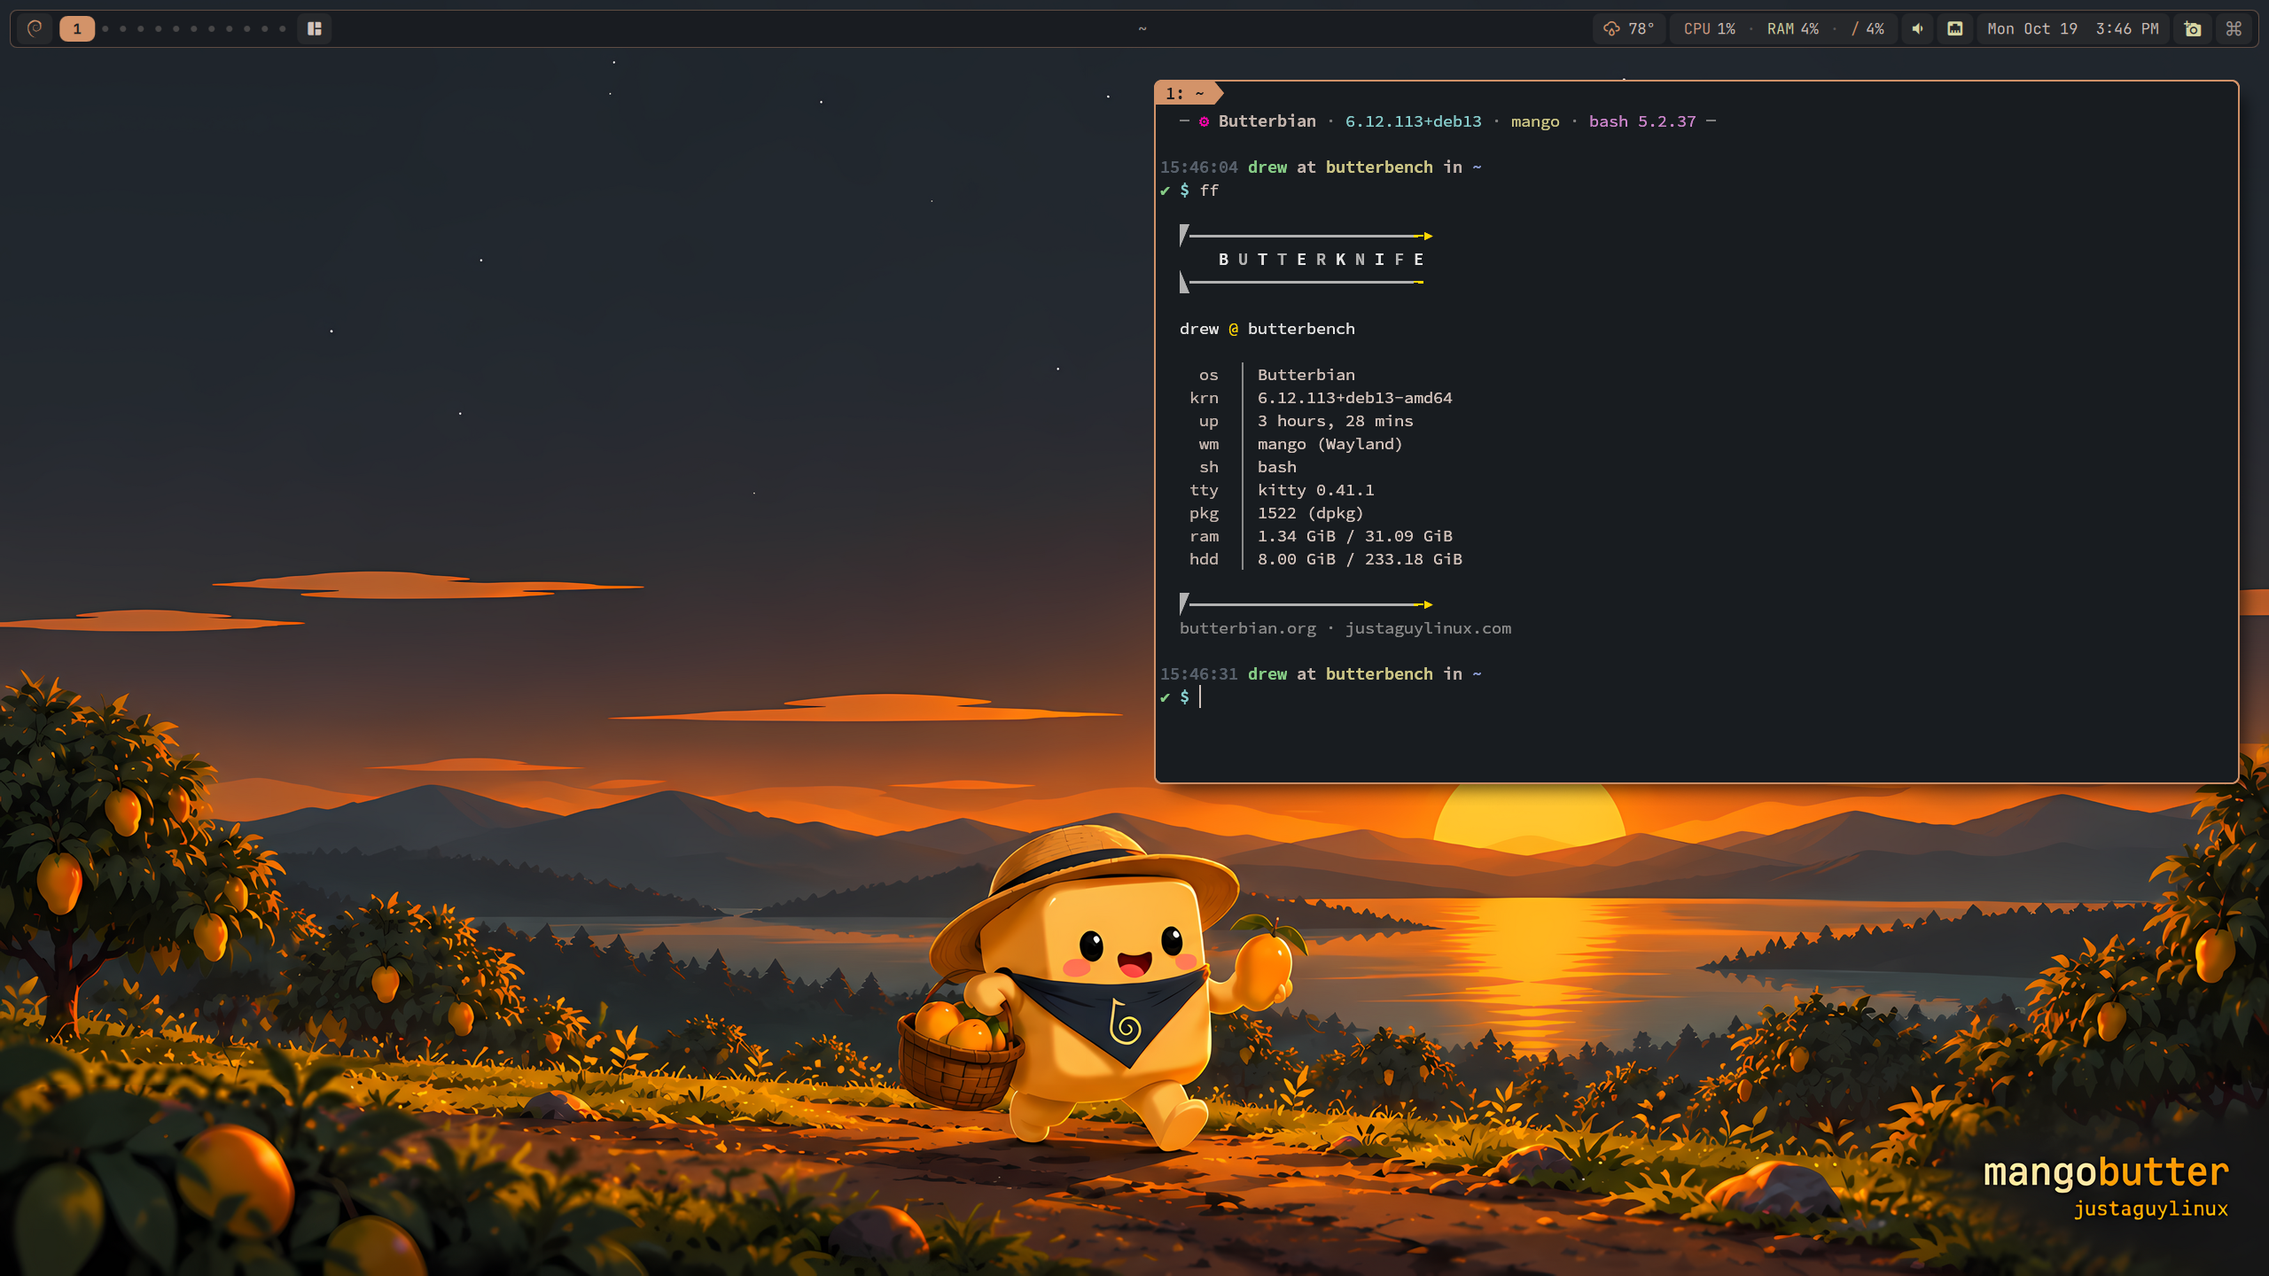
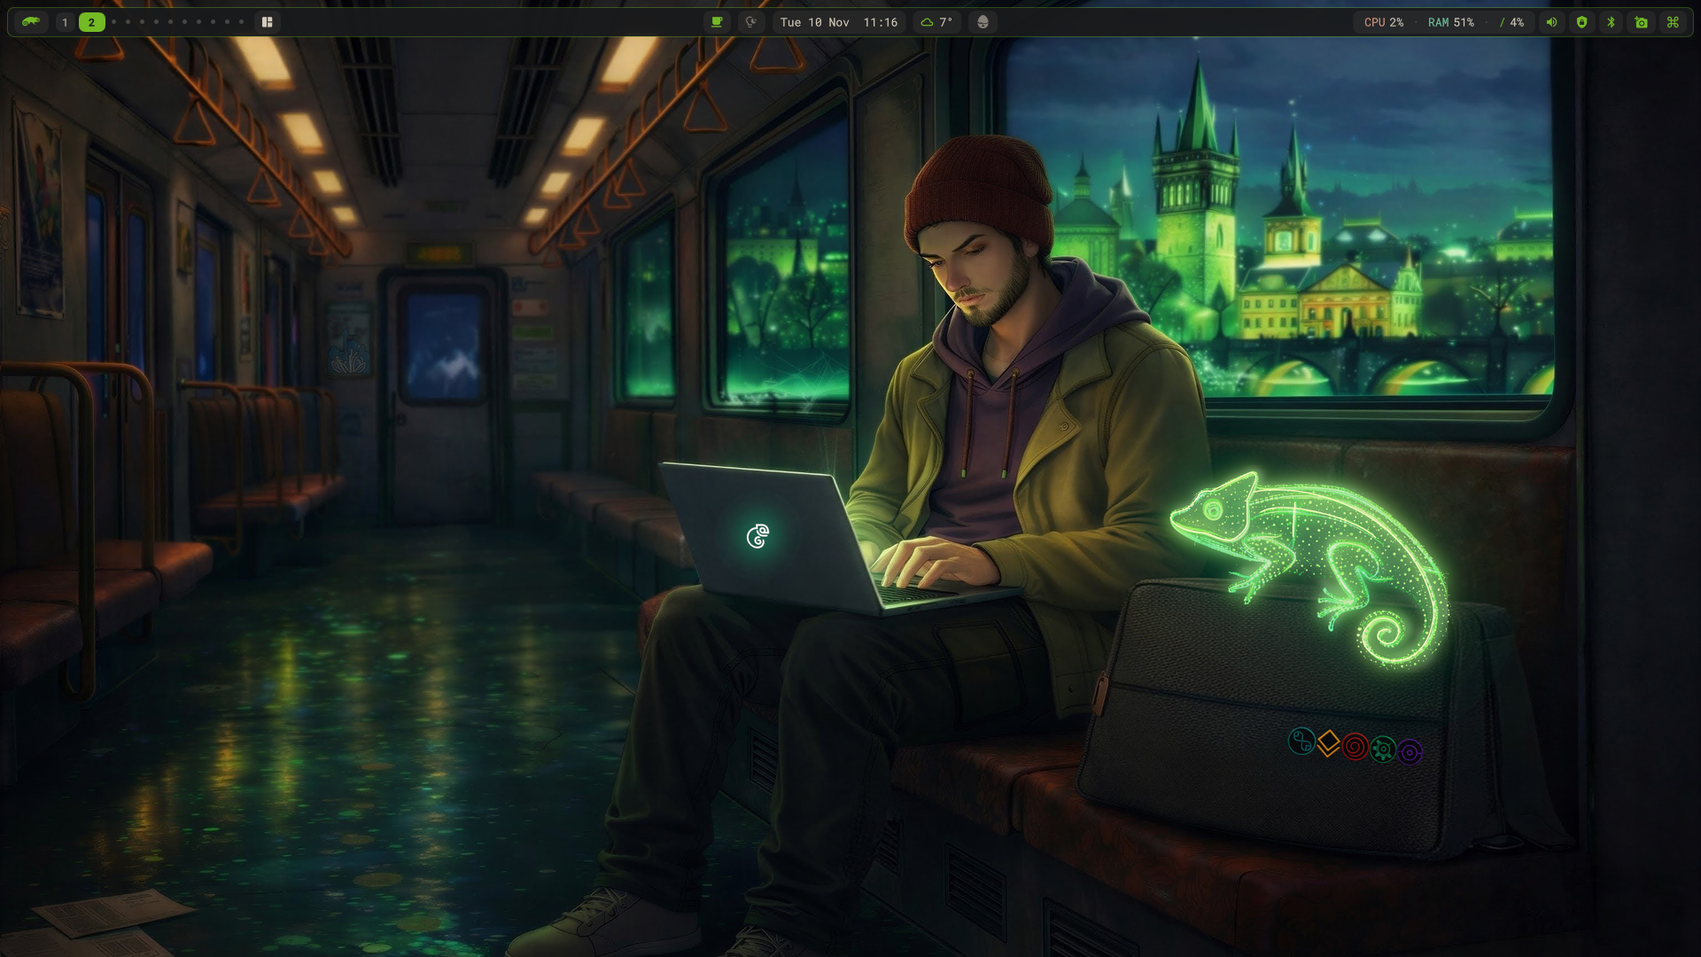
Rebrand as mango_opensuse for openSUSE Tumbleweed, credit Drew
- README rewritten for Tumbleweed: zypper install, installer options,
  what it builds, the Flathub apps (Focus Timer, Telegram) and mise +
  Claude Code; full credit to Drew (JustAGuyLinux) as the author of
  the original setup
- new desktop and terminal screenshots
- bar launcher icon is the openSUSE chameleon (adds BarModule's
  iconPixelSize so it can be drawn larger)
- Debian references in comments and docs rewritten; CONTRIBUTING points
  port issues here and setup changes upstream

diff --git a/share/quickshell/Launcher.qml b/share/quickshell/Launcher.qml
@@ -1,6 +1,6 @@
 import QtQuick
 
-// Debian swirl — the command center, no extra buttons needed:
+// openSUSE chameleon — the command center, no extra buttons needed:
 //   left: app launcher (LauncherPopup; the clipboard popup lives here
 //   too) · right: the settings panel's
 //   Wallpaper tab · middle: random wallpaper
@@ -8,8 +8,9 @@ import QtQuick
 BarModule {
     id: root
 
-    icon: ""  // Debian swirl (Font Logos, in Roboto Mono Nerd Font too)
+    icon: ""  // openSUSE chameleon (Font Logos, in Roboto Mono Nerd Font too)
     iconColor: Theme.accent
+    iconPixelSize: Math.round(Theme.iconSize * 1.35)
     onClicked: mouse => {
         if (mouse.button === Qt.RightButton)
             BarIpc.call("settings", "open", "wallpaper")

diff --git a/share/quickshell/BarModule.qml b/share/quickshell/BarModule.qml
@@ -11,6 +11,8 @@ Rectangle {
     property color iconColor: alert ? Theme.bg : Theme.accent
     // the icon's font; a module can set its own
     property string iconFont: Theme.fontFamily
+    // the icon's pixel size; a module can set its own
+    property int iconPixelSize: Theme.iconSize
     property string label: ""
     property color labelColor: alert ? Theme.bg : Theme.fg
     property bool interactive: true
@@ -52,7 +54,7 @@ Rectangle {
             text: root.icon
             color: root.iconColor
             font.family: root.iconFont
-            font.pixelSize: Theme.iconSize
+            font.pixelSize: root.iconPixelSize
             Behavior on color { ColorAnimation { duration: 250 } }
         }
 

diff --git a/share/quickshell/Sys.qml b/share/quickshell/Sys.qml
@@ -25,9 +25,9 @@ Singleton {
     property bool vpnOn: false
     property int wifiSignal: -1        // 0–100 while on Wi-Fi, -1 unknown
     // NetworkManager's verdict: full, limited, portal, none or unknown.
-    // Real only while its connectivity check is on (Debian's
-    // network-manager-config-connectivity-debian); without it NM just
-    // says full.
+    // Real only while its connectivity check is on (Tumbleweed's
+    // NetworkManager-branding-openSUSE ships it, conncheck.opensuse.org);
+    // without it NM just says full.
     property string connectivity: "unknown"
     property string checkUri: ""       // the check's URL: a sign-in page intercepts it
 

diff --git a/share/quickshell/LauncherPopup.qml b/share/quickshell/LauncherPopup.qml
@@ -3,7 +3,7 @@ import Quickshell
 import Quickshell.Io
 import Quickshell.Widgets
 
-// App launcher (Super+space, or left-click the Debian swirl): every
+// App launcher (Super+space, or left-click the openSUSE chameleon): every
 // installed app in a grid. Type to search (name, generic name, keywords,
 // program); arrows move, Enter launches, Esc clears then closes. Chips
 // (Ctrl+Tab) narrow to Apps, Settings (the .desktop "Settings" category,

diff --git a/README.md b/README.md
@@ -1,60 +1,72 @@
-# 🥭 mangobutter
+# 🥭 mango_opensuse
 
-> **openSUSE Tumbleweed fork.** A port of [justaguy.dev/butter/mango](https://justaguy.dev/butter/mango) to Tumbleweed; everything below this box is upstream's Debian README.
->
-> ```bash
-> sudo zypper in git
-> git clone https://github.com/pauljamesharper/opensuse_mango.git
-> cd opensuse_mango
-> ./install-opensuse.sh
-> ```
->
-> What's different from upstream:
-> - `install-opensuse.sh`: packages from the Tumbleweed repos via zypper. mangowc, scenefx, quickshell, butterpal, butterview and the themes are built from source into `/usr/local`. SDDM is kept.
-> - Extras: git, stow, vim, emacs, alacritty, blueman, mise (+ claude), OCR tools, CJK/Thai/Arabic/Khmer fonts, Flathub with Focus Timer and Telegram. IceWM is removed and locked.
-> - `first-run/`: Omarchy-style one-time setup that opens in a terminal at the first login. It sets the hostname and git identity, starts an ssh-agent user service, creates an Ed25519 key and walks you through adding it to Codeberg, GitHub and GitLab, then runs `zypper dup`. Run it again any time with `mango-first-run --force`.
+**A MangoWM desktop for openSUSE Tumbleweed.** Tags and a master stack, blur and rounded corners, a quickshell bar on top, and wallpaper-driven theming, installed in one go with `zypper`.
 
-mangobutter: [butterdwm](https://justaguy.dev/butter/dwm)'s Wayland cousin. Same butter, more mango.
-
-![Made for Debian](https://img.shields.io/badge/Made%20for-Debian%2013-A81D33?style=flat-square&logo=debian&logoColor=white)
+![Made for openSUSE Tumbleweed](https://img.shields.io/badge/Made%20for-openSUSE%20Tumbleweed-73BA25?style=flat-square&logo=opensuse&logoColor=white)
 ![MangoWM](https://img.shields.io/badge/MangoWM-0.14.4-5294E2?style=flat-square&logo=wayland&logoColor=white)
-![Last Commit](https://img.shields.io/gitea/last-commit/butter/mango?gitea_url=https://justaguy.dev&style=flat-square&logo=forgejo&logoColor=white&color=green&label=Last%20Commit)
 
-[MangoWM](https://github.com/mangowm/mango) at the core, a quickshell bar on top, for Debian 13 (trixie).
-dwm's brain with Hyprland's face, on plain Debian stable.
+![mango_opensuse desktop](screenshots/desktop.png)
 
-![mangobutter screenshot](screenshots/desktop.png)
+![mango_opensuse terminal with fastfetch](screenshots/terminal.png)
 
-> 📚 **The documentation is the [wiki](https://justaguy.dev/butter/mango/wiki).** This README gets you installed and tells you the four things to know. Everything else, keybinds, the settings panel, scratchpads, theming, multi-monitor, the 0.14.4 pin, upgrading, troubleshooting, lives there.
-
-Starting from a bare machine? [butterknife](https://justaguy.dev/drew/butterknife) installs Debian 13 with this setup picked from a menu. Part of the [JustAGuy Linux](https://justaguy.dev/drew) window manager collection and the [Butterbian](https://butterbian.org) family. Formerly mangowc-setup; the old URL redirects.
+> 🧈 **All credit to Drew of [JustAGuyLinux](https://justaguy.dev/drew).** This is an openSUSE Tumbleweed port of his [mango setup](https://justaguy.dev/butter/mango) (mangobutter), the Wayland cousin of his [butterdwm](https://justaguy.dev/butter/dwm). The bar, the settings panel, the wallpaper theming, the scripts, the config layout and the design are all his work. This fork only changes how it gets onto Tumbleweed and adds a few extras on top. If you like it, [support Drew](#support-drew) and follow his work.
 
 ---
 
 ## INSTALL
 
 ```bash
-sudo apt install git      # a minimal Debian doesn't have it
-git clone https://justaguy.dev/butter/mango.git
-cd mango
-./install.sh
+sudo zypper in git
+git clone https://github.com/pauljamesharper/opensuse_mango.git
+cd opensuse_mango
+./install-opensuse.sh
 ```
 
 ```
-./install.sh [OPTIONS]
+./install-opensuse.sh [OPTIONS]
 
-  --only-config      Config files; on Debian also the packages added to the list
-                     since, one at a time, never removing anything
-  --help             Show usage
+  --only-config   Config files, plus packages added to the list since (never removes any)
+  --rebuild       Rebuild mangowc, scenefx, quickshell, butterpal, butterview and themes
+  --help          Show usage
 ```
 
-Then reboot and pick **Mango** at the login screen. The installer refreshes and upgrades the system (`apt-get upgrade`), adds [butterrepo](https://justaguy.dev/drew/butterrepo) and takes the compositor stack and themes from it (`mangowc` 0.14.4, `libwlroots-0.19`, `libscenefx-0.4`, `quickshell`, `rofi`, `awww`, Orchis and Colloid), installs the rest from Debian (see the wiki's [Packages](https://justaguy.dev/butter/mango/wiki/Packages) page), pulls kitty, Nerd Fonts and LightDM through [butterscripts](https://justaguy.dev/drew/butterscripts), installs the `mango-session` login wrapper, and ends with an optional tools prompt.
+Then reboot and pick **Mango** at the SDDM login screen.
 
-Debian 13 is the only base. Anything else, forky, sid, Ubuntu, the installer refuses on purpose: the reason is the wlroots pin, explained on the wiki's [Why 0.14.4](https://justaguy.dev/butter/mango/wiki/Why-0.14.4) page.
+The installer:
 
-> ⚠ **NVIDIA: untested.** Only run on AMD so far. The installer runs `nvidia-setup.sh` when it sees the proprietary driver; nobody has verified blur, shadows and rounded corners on it. Reports welcome either way.
+- takes everything it can from the official Tumbleweed repos with `zypper` (no third-party desktop repo)
+- builds `mangowc` 0.14.4 (with the patches Drew's packages carry), scenefx 0.4.1, quickshell, butterpal and butterview from source into `/usr/local`, and rebuilds them only when they are out of date or Tumbleweed moves Qt or wlroots underneath them
+- builds the Orchis and Colloid themes from vinceliuice's tagged releases
+- installs the `mango-session` login entry and keeps SDDM
+- installs the Nerd Fonts through Drew's [butterscripts](https://justaguy.dev/drew/butterscripts)
+- rewrites the bar's package commands (update counter, "Check for updates", install hints) to `zypper`
 
-> 🪵 **Branches:** `main` is the release, `dev` is where work lands.
+openSUSE Tumbleweed is the only base. Slowroll should behave the same but is untested. Leap is refused because its wlroots and Qt are too old.
+
+After a big Tumbleweed snapshot (new Qt or wlroots), if the bar or mango won't start, run `./install-opensuse.sh --rebuild`.
+
+> ⚠ **NVIDIA: untested.** The installer runs `nvidia-setup.sh` when it sees the proprietary driver; nobody has verified blur, shadows and rounded corners on it.
+
+---
+
+## EXTRAS IN THIS FORK
+
+**Flatpaks.** Flathub is added system-wide and these apps are installed from it:
+
+| App | Why |
+|---|---|
+| [Focus Timer](https://flathub.org/apps/io.github.focustimerhq.FocusTimer) | Pomodoro timer |
+| [Telegram](https://flathub.org/apps/org.telegram.desktop) | Chat |
+
+Add your own to the `FLATPAKS` list in `install-opensuse.sh`; `--only-config` installs anything new.
+
+**mise and Claude Code.** [mise](https://mise.jdx.dev) comes from its own zypper repo, gets activated in `~/.bashrc`, and installs [Claude Code](https://claude.com/claude-code) with `mise use -g claude@latest`. Upgrade it later with `mise upgrade claude`.
+
+**Packages.** git, stow, vim, emacs, alacritty and blueman; tesseract OCR and wtype; Noto fonts for CJK, Thai, Arabic and Khmer. IceWM is removed and locked.
+
+**First-run setup.** `first-run/` is an Omarchy-style one-time setup that opens in a terminal at the first login. It sets the hostname and git identity, starts an ssh-agent user service, creates an Ed25519 key and walks you through adding it to Codeberg, GitHub and GitLab, then runs `zypper dup`. Run it again any time with `mango-first-run --force`.
+
+**openSUSE look.** The launcher on the bar is the openSUSE chameleon.
 
 ---
 
@@ -62,13 +74,13 @@ Debian 13 is the only base. Anything else, forky, sid, Ubuntu, the installer ref
 
 1. **`Super + /` opens the settings panel.** Keybinds, window rules and scratchpads, layouts, gaps and effects, displays and wallpapers, one place with vertical tabs. Most things you would edit a file for are a click here.
 
-2. **Your config is six files in `~/.config/mango/`.** `keybinds.conf` is every binding, `rules.conf` every window rule and scratchpad, `local.conf` your overrides (read last, so they win), plus `autostart.conf`, `env` and the `config.conf` that sources them. The setup's own files live in `~/.local/share/mango` and are replaced on update; yours are treated like `dpkg` treats a conffile.
+2. **Your config is six files in `~/.config/mango/`.** `keybinds.conf` is every binding, `rules.conf` every window rule and scratchpad, `local.conf` your overrides (read last, so they win), plus `autostart.conf`, `env` and the `config.conf` that sources them. The setup's own files live in `~/.local/share/mango` and are replaced on update; yours are kept like a package manager keeps an edited config file.
 
 3. **`Super + Shift + R` reloads.** No restart, no logout. `mango -p` checks a config for mistakes and names the file and line.
 
-4. **Updating is a menu entry.** `Super + Shift + m`, then **Update setup**: it pulls the clone you installed from and reinstalls in place, the way dpkg treats a conffile. A file you edited stays as it is; if the shipped version changed too, the new one lands beside yours as `.new` and the installer says so, once. The setup's own files are replaced, your settings and colors are left alone. Nothing checks on its own. [Upgrading](https://justaguy.dev/butter/mango/wiki/Upgrading) has the rule.
+4. **Updating is a menu entry.** `Super + Shift + m`, then **Update setup**: it pulls the clone you installed from and runs `install-opensuse.sh --only-config` in place. A file you edited stays as it is; if the shipped version changed too, the new one lands beside yours as `.new` and the installer says so, once. The setup's own files are replaced, your settings and colors are left alone. Nothing checks on its own. [Upgrading](https://justaguy.dev/butter/mango/wiki/Upgrading) has the rule.
 
-Everything else is on the wiki: [Keybinds](https://justaguy.dev/butter/mango/wiki/Keybinds) · [Settings Panel](https://justaguy.dev/butter/mango/wiki/Settings-Panel) · [Scratchpads](https://justaguy.dev/butter/mango/wiki/Scratchpads) · [Customization](https://justaguy.dev/butter/mango/wiki/Customization) · [Themes](https://justaguy.dev/butter/mango/wiki/Themes) · [Multi-Monitor](https://justaguy.dev/butter/mango/wiki/Multi-Monitor) · [Why 0.14.4](https://justaguy.dev/butter/mango/wiki/Why-0.14.4) · [Upgrading](https://justaguy.dev/butter/mango/wiki/Upgrading) · [Troubleshooting](https://justaguy.dev/butter/mango/wiki/Troubleshooting)
+Everything else is on Drew's wiki (written for his original; the desktop works the same here, only the install and package steps differ): [Keybinds](https://justaguy.dev/butter/mango/wiki/Keybinds) · [Settings Panel](https://justaguy.dev/butter/mango/wiki/Settings-Panel) · [Scratchpads](https://justaguy.dev/butter/mango/wiki/Scratchpads) · [Customization](https://justaguy.dev/butter/mango/wiki/Customization) · [Themes](https://justaguy.dev/butter/mango/wiki/Themes) · [Multi-Monitor](https://justaguy.dev/butter/mango/wiki/Multi-Monitor) · [Why 0.14.4](https://justaguy.dev/butter/mango/wiki/Why-0.14.4) · [Upgrading](https://justaguy.dev/butter/mango/wiki/Upgrading) · [Troubleshooting](https://justaguy.dev/butter/mango/wiki/Troubleshooting)
 
 ---
 
@@ -95,29 +107,31 @@ Mango is dwm's model, tags and a master stack, as a wlroots compositor with scen
 
 ## CREDITS
 
-This project is a config on top of other people's software. Mango is by [DreamMaoMao](https://github.com/DreamMaoMao) and [contributors](https://github.com/mangowm/mango), on [wlroots](https://gitlab.freedesktop.org/wlroots/wlroots) and [scenefx](https://github.com/wlrfx/scenefx). Quickshell by [outfoxxed](https://git.outfoxxed.me/quickshell/quickshell). awww by [LGFae](https://codeberg.org/LGFae/awww). rofi-wayland by [lbonn](https://github.com/lbonn/rofi). dunst by the [dunst project](https://dunst-project.org). kitty by [Kovid Goyal](https://sw.kovidgoyal.net/kitty/). GTK and icon themes by [vinceliuice](https://github.com/vinceliuice): [Orchis](https://github.com/vinceliuice/Orchis-theme) and [Colloid](https://github.com/vinceliuice/Colloid-icon-theme).
+**Drew ([JustAGuyLinux](https://justaguy.dev/drew))** made this setup: the mango config, the quickshell bar and its settings panel, the wallpaper theming, the scripts, butterpal and butterview. The original lives at [justaguy.dev/butter/mango](https://justaguy.dev/butter/mango), with its [wiki](https://justaguy.dev/butter/mango/wiki). This repo is only the openSUSE Tumbleweed port.
+
+Drew's setup is itself built on other people's software. Mango is by [DreamMaoMao](https://github.com/DreamMaoMao) and [contributors](https://github.com/mangowm/mango), on [wlroots](https://gitlab.freedesktop.org/wlroots/wlroots) and [scenefx](https://github.com/wlrfx/scenefx). Quickshell by [outfoxxed](https://git.outfoxxed.me/quickshell/quickshell). awww by [LGFae](https://codeberg.org/LGFae/awww). rofi-wayland by [lbonn](https://github.com/lbonn/rofi). dunst by the [dunst project](https://dunst-project.org). kitty by [Kovid Goyal](https://sw.kovidgoyal.net/kitty/). GTK and icon themes by [vinceliuice](https://github.com/vinceliuice): [Orchis](https://github.com/vinceliuice/Orchis-theme) and [Colloid](https://github.com/vinceliuice/Colloid-icon-theme).
 
 ---
 
-## Support
+## Support Drew
 
 <a href="https://www.buymeacoffee.com/justaguylinux" target="_blank"><img src="https://www.buymeacoffee.com/assets/img/custom_images/orange_img.png" alt="Buy me a coffee" /></a>
 
-## Connect
+## Drew's work
 
 - [YouTube](https://youtube.com/@justaguylinux) — tutorials and guides
 - [Butterforge](https://justaguy.dev/drew) — source code and projects
-- [Butter desktops](https://justaguy.dev/butter) — ready-to-use window manager desktops for Debian
+- [Butter desktops](https://justaguy.dev/butter) — more of Drew's ready-to-use window manager desktops
 - [The Butter Lab](https://lab.justaguylinux.com) — Discourse forum
 - [The Churn](https://justaguylinux.chat) — community chat (Fluxer)
 - [Wiki](https://justaguy.wiki) — documentation and guides
 - [Mastodon](https://fosstodon.org/@justaguylinux) — @justaguylinux@fosstodon.org
-- [Butterbian](https://butterbian.org) — a maintained Debian derivative built on Debian stable
+- [Butterbian](https://butterbian.org) — Drew's own distribution
 
 ## License
 
-GPL-2.0. See [LICENSE](LICENSE).
+GPL-2.0, as upstream. See [LICENSE](LICENSE).
 
 ---
 
-Made with 🧈 by JustAGuyLinux
+Made with 🧈 by [JustAGuyLinux](https://justaguy.dev/drew) · ported to openSUSE Tumbleweed by [pauljamesharper](https://github.com/pauljamesharper)

diff --git a/CONTRIBUTING.md b/CONTRIBUTING.md
@@ -1,9 +1,14 @@
 # Contributing
 
-Pull requests welcome, no fork needed. Full instructions:
+**To this openSUSE port:** open an issue or a pull request at
+https://github.com/pauljamesharper/opensuse_mango.
+
+**To the setup itself** (the bar, the configs, the scripts): those are
+Drew's, and changes that aren't openSUSE-specific belong upstream at
+https://justaguy.dev/butter/mango. His instructions:
 https://justaguy.dev/drew/.profile/src/branch/main/CONTRIBUTING.md
 
-Quick version (sign in with Codeberg or GitHub, add an SSH key, then):
+Quick version for upstream (sign in with Codeberg or GitHub, add an SSH key, then):
 
     git clone ssh://forgejo@justaguy.dev/butter/mango.git
     cd mango
@@ -12,5 +17,3 @@ Quick version (sign in with Codeberg or GitHub, add an SSH key, then):
     git push origin HEAD:refs/for/main -o topic=my-change -o title="Short description"
 
 Push again with the same topic to update the pull request.
-
-Or attach a `git format-patch` file to an issue.

diff --git a/share/quickshell/README.md b/share/quickshell/README.md
@@ -69,8 +69,8 @@ icon theme in as `QS_ICON_THEME` (quickshell doesn't follow it itself).
   always card-only (`composited: false`). Network state follows
   `nmcli monitor` (instant), plus Wi-Fi signal strength and
   NetworkManager's connectivity verdict (sign-in page / no internet),
-  which needs its connectivity check on — the installer adds Debian's
-  `network-manager-config-connectivity-debian`.
+  which needs its connectivity check on — Tumbleweed has it on by
+  default (`NetworkManager-branding-openSUSE`, conncheck.opensuse.org).
 - `Commands.qml` — keep-awake is a `systemd-inhibit --what=idle` holder
   process (swayidle watches logind for idle inhibitors, so this also
   keeps the monitor from powering down); night light is wlsunset; the

diff --git a/QUICKSTART.md b/QUICKSTART.md
@@ -1,4 +1,4 @@
-# mangobutter Quick Start
+# mango_opensuse Quick Start
 
 Super is the mod key. Keys: `~/.config/mango/keybinds.conf`; startup programs: `autostart.conf`; your overrides: `local.conf`; the setup's defaults: `~/.local/share/mango/defaults.conf` (Super+Shift+r reloads live).
 
